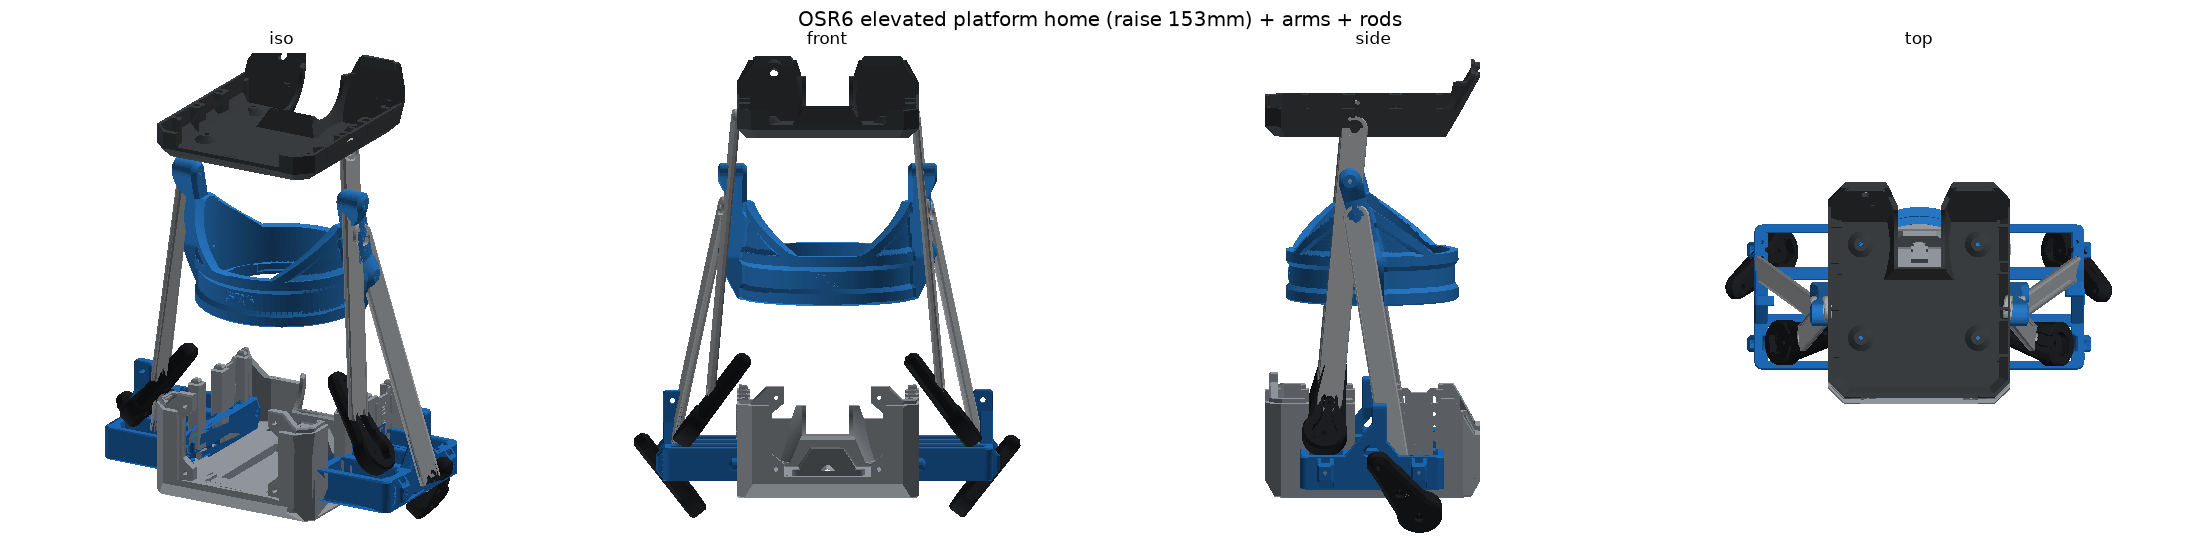
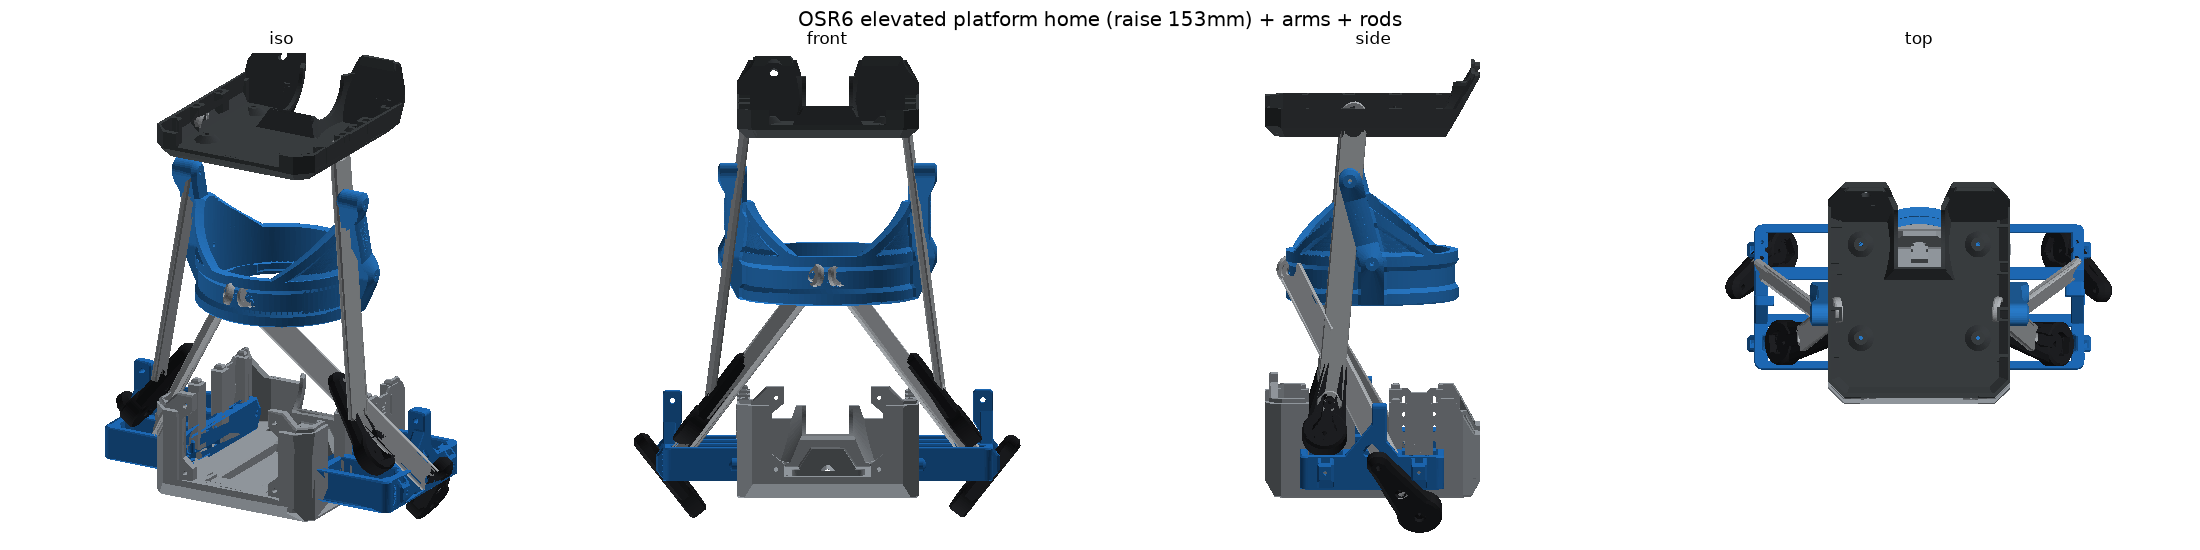
v2: rods attach to distinct real receiver-surface points (175mm-fit), no convergence

diff --git a/80-装配_Assembly/v2/platform_home.py b/80-装配_Assembly/v2/platform_home.py
@@ -82,8 +82,12 @@ def build_platform(verbose=True):
     parts = [(Mf[n].vertices, Mf[n].faces, COLORS[n]) for n in FIXED]
     for n in PLATFORM:
         parts.append((Mp[n].vertices + shift, Mp[n].faces, COLORS[n]))
-    pivots = ears + shift
     rc = rec.vertices.mean(axis=0) + shift
+    # candidate rod attachment points = the REAL receiver surface (raised).
+    # No invented pivots: each rod connects to an actual receiver vertex, picked
+    # so the rod's true 175mm length fits and rods distribute over the cradle.
+    rec_v = rec.vertices + shift
+    ROD_LEN = abs(ROD_B[1] - ROD_A[1])
 
     for c, a in bearings:
         best = None
@@ -95,11 +99,15 @@ def build_platform(verbose=True):
                 best = (sc, v, T, pin)
         parts.append((best[1], arm.faces, COLORS["Arm"]))
         crankpin = best[3]
-        # the rod is a real 175mm two-bore link from the crankpin up to the
-        # elevated platform. The crank/bearing stack gives the rod a swing DOF;
-        # orient the rod so its bore axis points from the crankpin toward the
-        # nearest platform pivot (rods rise to the platform, no splay).
-        tgt = min(pivots, key=lambda p: np.linalg.norm(p - crankpin))
+        # the rod is a real 175mm two-bore link with a ball joint at the crankpin
+        # (free swing). Among the real receiver-surface points on the SAME side
+        # as this servo, choose the one whose distance best matches the rod's
+        # 175mm length, then orient the rod's bore axis straight at it. Rods rise
+        # and spread to distinct real contact points instead of splaying flat.
+        same = rec_v[np.sign(rec_v[:, 0]) == np.sign(crankpin[0])]
+        cand = same if len(same) else rec_v
+        d = np.linalg.norm(cand - crankpin, axis=1)
+        tgt = cand[np.argmin(np.abs(d - ROD_LEN))]
         direction = (tgt - crankpin)
         direction = direction / np.linalg.norm(direction)
         R = rot_between(ROD_AX, direction)
@@ -107,8 +115,9 @@ def build_platform(verbose=True):
         parts.append((rv, rod.faces, COLORS["Rod"]))
         endB = R @ ROD_B + (crankpin - R @ ROD_A)
         if verbose:
-            print(f"   crankpin {np.round(crankpin,1)} -> pivot {np.round(tgt,1)} "
-                  f"gap {np.linalg.norm(tgt-crankpin):.1f}mm rodB {np.round(endB,1)}")
+            print(f"   crankpin {np.round(crankpin,1)} -> recv pt {np.round(tgt,1)} "
+                  f"gap {np.linalg.norm(tgt-crankpin):.1f}mm endB-tgt "
+                  f"{np.linalg.norm(endB-tgt):.1f}mm")
     return parts, dz
 
 
